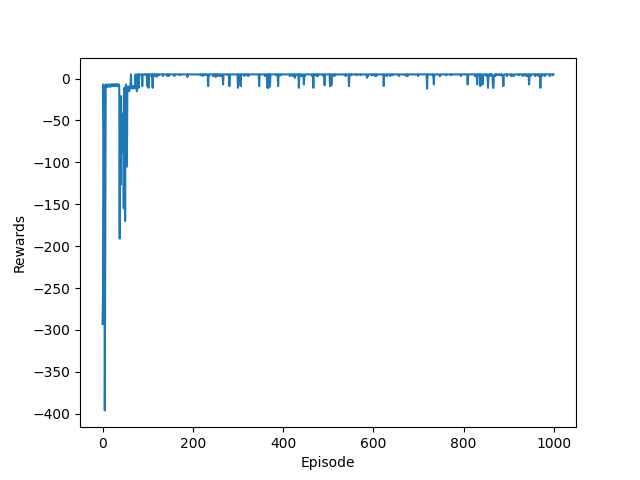
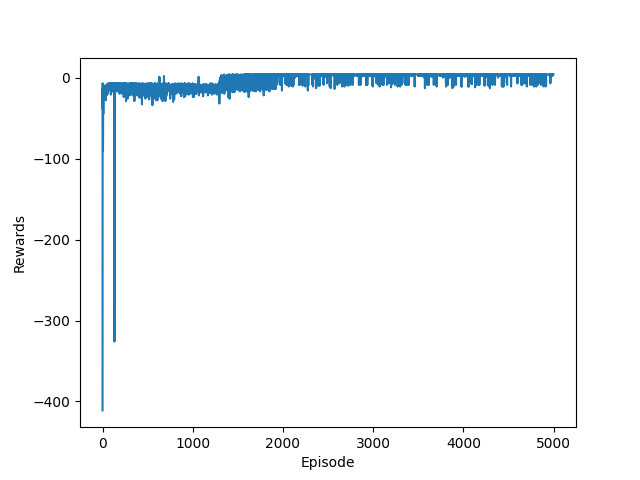
testing with multiple obstacles in the enviroment

diff --git a/Training/qlearning_training.py b/Training/qlearning_training.py
@@ -10,13 +10,13 @@ from matplotlib import pyplot as plt
 
 
 # parameters of learning
-alpha = 0.5  # learning rate, learn more quickly if alpha is closer to 1
+alpha = 0.01  # learning rate, learn more quickly if alpha is closer to 1
 gamma = 0.6  # use a higher gamma for smaller spaces because we value later rewards rather than former rewards
 epsilon = 0.05  # agent can do 100% exploitation (0) or 100% exploration (1)
 
 action_space = [0, 1, 2, 3]
 
-NUM_EPISODES = 1000
+NUM_EPISODES = 5000
 
 
 '''action space:
@@ -56,7 +56,7 @@ def identifies_state_matrix(i, j):
 def next_step(action, state, goal_state):
     if state == goal_state:
         return 10, state
-    elif state == trap_state: 
+    elif state in traps:
         return -5, state
     else:
         i, j = identifies_index(state)
@@ -125,7 +125,7 @@ def update(enviroment, state, old_state, episode, steps):
 
 
 def training_agent(enviroment, num_episodes, env_size):
-    global goal_state, steps, rewards, training_start, training_end, penalties, trap_state 
+    global goal_state, steps, rewards, training_start, training_end, penalties
     training_start = time()
     steps = []
     rewards = []
@@ -137,19 +137,21 @@ def training_agent(enviroment, num_episodes, env_size):
         # reset enviroment to learn a new goal
         i, j = identifies_state(enviroment, env_size)
         k, l = identifiesgoal_state(enviroment, env_size)
-        m, n = identifies_trap(enviroment, env_size)
+        identifies_trap(enviroment, env_size)
         state = int(state_matrix[i][j])
         goal_state = int(state_matrix[k][l])
-        trap_state = int(state_matrix[m][n])
         states.append(state)
         epochs = 0
-        num_penalties, reward, total_reward, old_state = 0, 0, 0, 0
+        num_penalties, reward, total_reward, old_state, penalty = 0, 0, 0, 0, 0
         done = False
         while not done:
             state, reward, old_state, done = update(
                 enviroment, state, old_state, num_episodes, epochs)
             total_reward += reward
             epochs += 1
+            if state in traps:
+                penalty+=1
+                num_penalties+=penalty
             #print(state, reward, old_state, done, goal_state)
             states.append(state)
         # store steps and rewards for each episode
@@ -219,9 +221,11 @@ def reset_enviroment(enviroment, env_size):  # changes the goal to another place
     i, j = indices[0], indices[1]
     if(i == 0 == j):
         j += 1
-    enviroment[2][3] = 20
+    enviroment[3][3] = 20
     enviroment[1][1] = -1
+    enviroment[2][2] = -1
     enviroment[1][2] = -1
+    enviroment[2][3] = -1
     enviroment[0][0] = 1
     return enviroment
 
@@ -250,13 +254,15 @@ def identifiesgoal_state(enviroment, env_size):
 
 
 def identifies_trap(enviroment, env_size):
+    global traps
+    traps = []
     for i in range(env_size):
         for j in range(env_size):
             if enviroment[i][j] == -1:
-                return i, j
+                traps.append(state_matrix[i][j])
+
+
 # plot desired matrix
-
-
 def plot_matrix(matrix, x_size, y_size):
     figure, ax = plt.subplots()
     im = ax.matshow(matrix)
@@ -281,6 +287,7 @@ def main():
     Q.shape
     training_agent(env, NUM_EPISODES, enviromentsize)
     evaluate_training()
+    plot_matrix(env, enviromentsize, enviromentsize)
     print(Q)
     with open('pickle/Q_0_1.pickle', "wb") as write:
         pickle.dump(Q, write)
